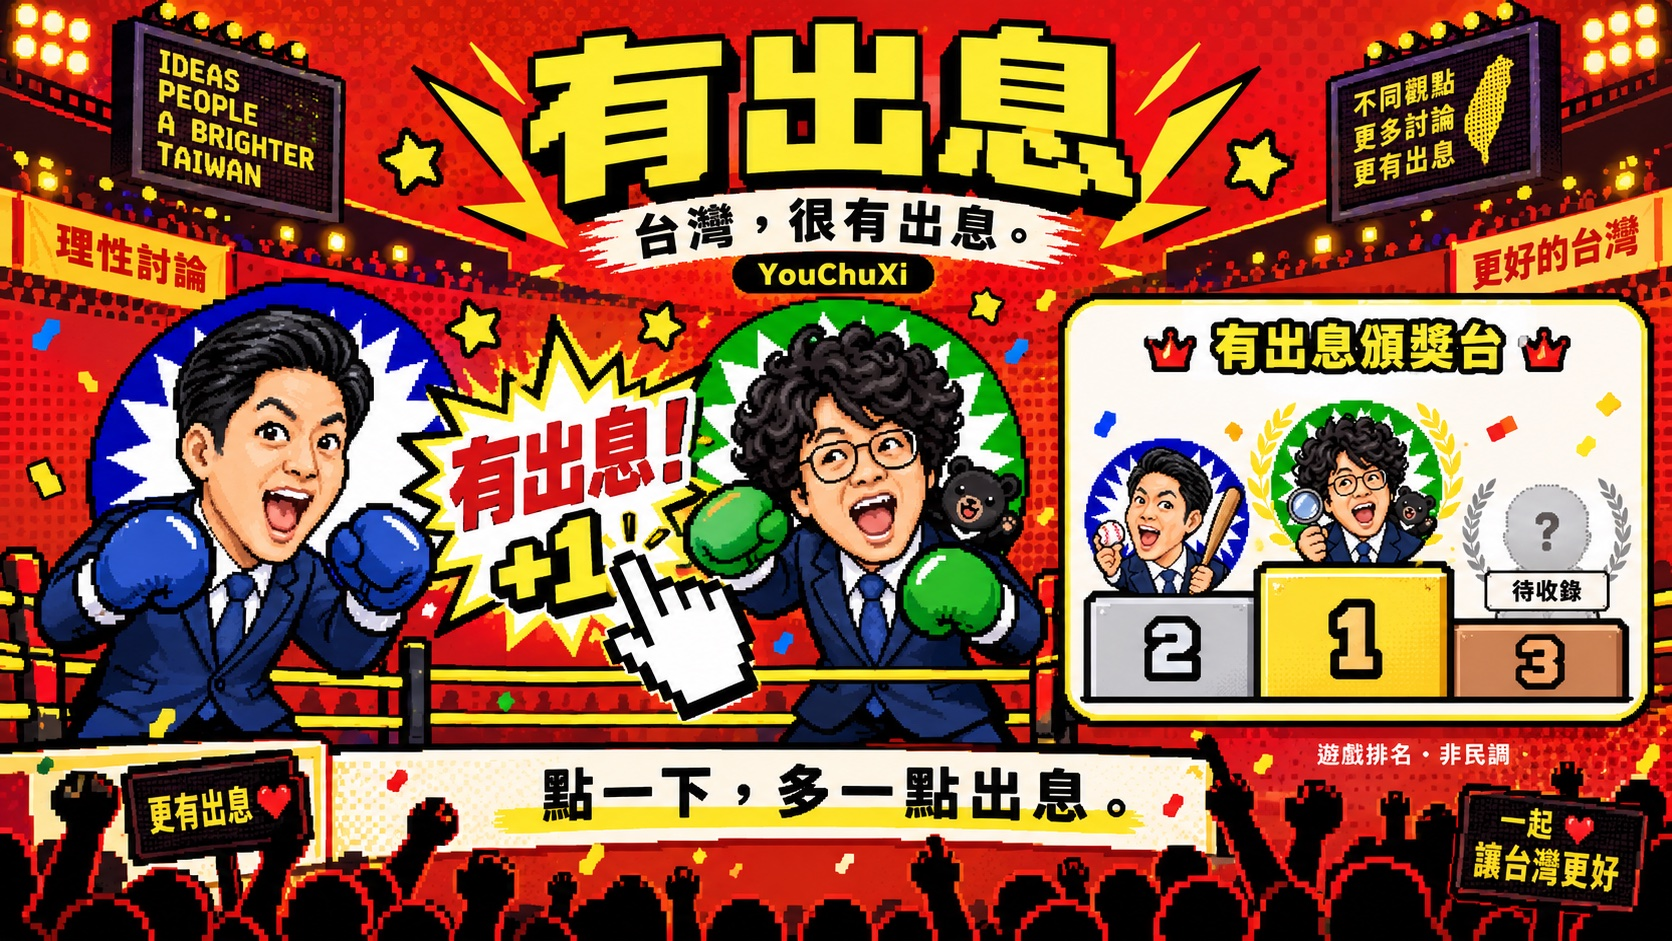
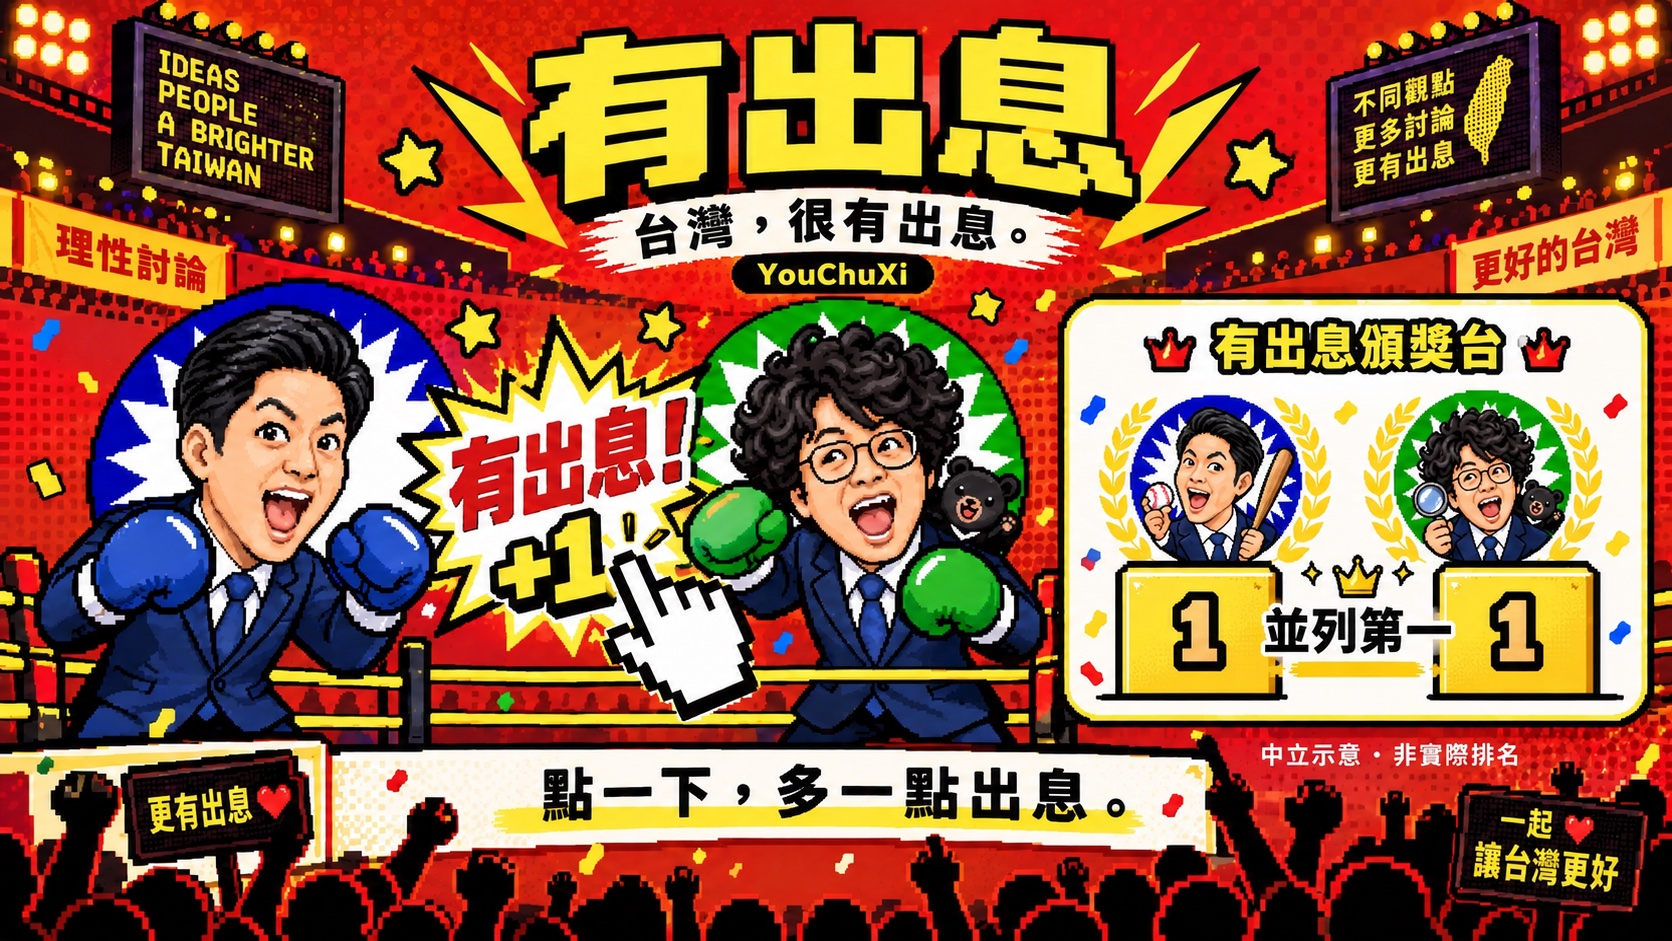
docs(readme): show both candidates as tied first in official image

diff --git a/README.md b/README.md
@@ -8,7 +8,7 @@
 
 [![有出息官網示意圖：臺北市蔣萬安與沈伯洋、點擊加分及頒獎台](docs/images/youchuxi-overview.jpg)](https://youchuxi.k66inthesky.workers.dev/)
 
-*新版官網風格示意圖：點人物，每次 ＋1 有出息；頒獎台為遊戲排名，非投票或民調，實際名次以官網即時數據為準。*
+*新版官網風格示意圖：點人物，每次 ＋1 有出息；兩位候選人並列第一、同等呈現，維持平台政治中立。此圖非實際排名、投票或民調。*
 
 [![有出息 YouChuXi 示範影片，點擊前往 YouTube 播放](https://i.ytimg.com/vi/VZSrQtIqvQw/hqdefault.jpg)](https://youtu.be/VZSrQtIqvQw)
 
